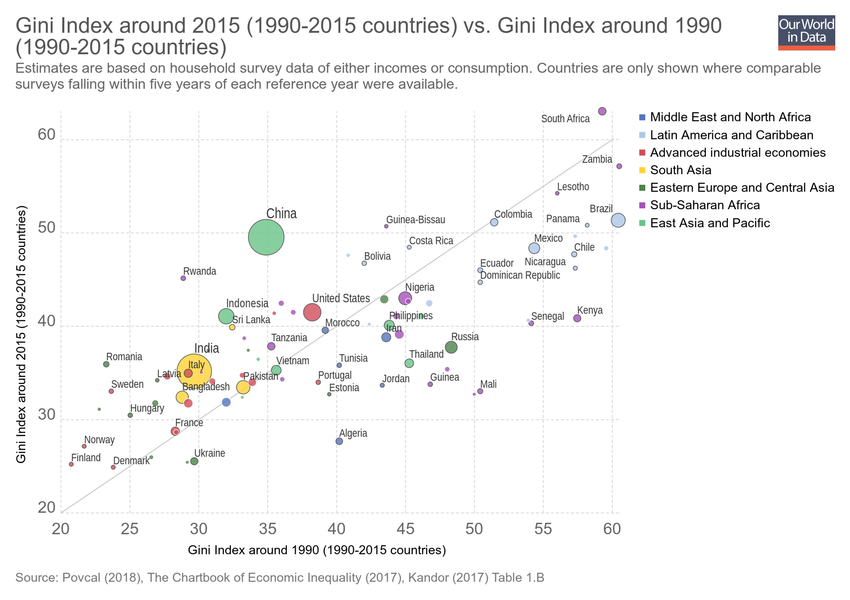
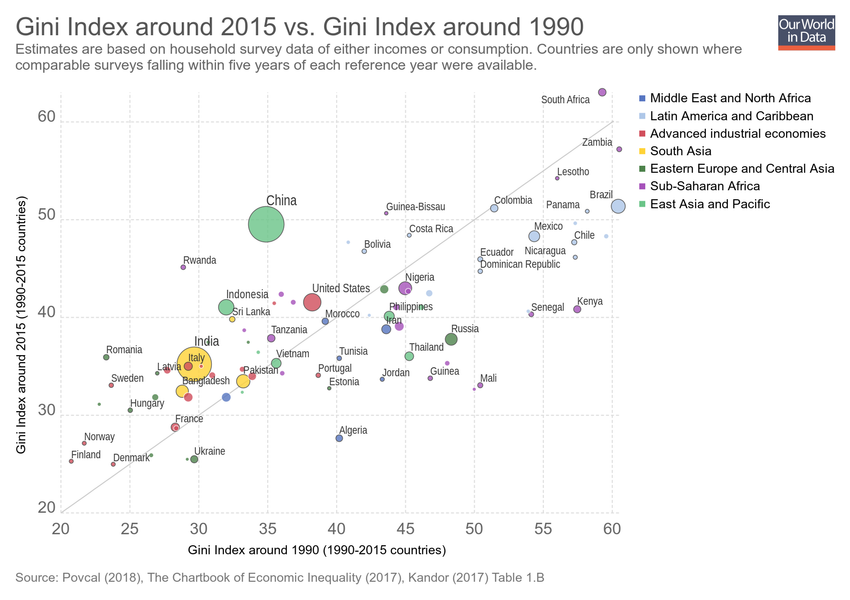
Updating chart gini-index-around-2015-1990-2015-countries-vs-gini-index-around-1990-1990-2015-countries

diff --git a/grapher/gini-index-around-2015-1990-2015-countries-vs-gini-index-around-1990-1990-2015-countries.html b/grapher/gini-index-around-2015-1990-2015-countries-vs-gini-index-around-1990-1990-2015-countries.html
@@ -1,4 +1,4 @@
-<!doctype html><html><head><meta name="viewport" content="width=device-width, initial-scale=1" /><title>Gini Index around 2015 (1990-2015 countries) vs. Gini Index around 1990 (1990-2015 countries) - Our World in Data</title><meta name="description" content="Estimates are based on household survey data of either incomes or consumption. Countries are only shown where comparable surveys falling within five years of each reference year were available." /><link rel="canonical" href="https://ourworldindata.org/grapher/gini-index-around-2015-1990-2015-countries-vs-gini-index-around-1990-1990-2015-countries" /><meta property="fb:app_id" content="1149943818390250" /><meta property="og:url" content="https://ourworldindata.org/grapher/gini-index-around-2015-1990-2015-countries-vs-gini-index-around-1990-1990-2015-countries" /><meta property="og:title" content="Gini Index around 2015 (1990-2015 countries) vs. Gini Index around 1990 (1990-2015 countries)" /><meta property="og:description" content="Estimates are based on household survey data of either incomes or consumption. Countries are only shown where comparable surveys falling within five years of each reference year were available." /><meta property="og:image" content="https://ourworldindata.org/grapher/exports/gini-index-around-2015-1990-2015-countries-vs-gini-index-around-1990-1990-2015-countries.png?v=5" /><meta property="og:image:width" content="850" /><meta property="og:image:height" content="600" /><meta property="og:site_name" content="Our World in Data" /><meta name="twitter:card" content="summary_large_image" /><meta name="twitter:site" content="@OurWorldInData" /><meta name="twitter:creator" content="@OurWorldInData" /><meta name="twitter:title" content="Gini Index around 2015 (1990-2015 countries) vs. Gini Index around 1990 (1990-2015 countries)" /><meta name="twitter:description" content="Estimates are based on household survey data of either incomes or consumption. Countries are only shown where comparable surveys falling within five years of each reference year were available." /><meta name="twitter:image" content="https://ourworldindata.org/grapher/exports/gini-index-around-2015-1990-2015-countries-vs-gini-index-around-1990-1990-2015-countries.png?v=5" /><style>
+<!doctype html><html><head><meta name="viewport" content="width=device-width, initial-scale=1" /><title>Gini Index around 2015 vs. Gini Index around 1990 - Our World in Data</title><meta name="description" content="Estimates are based on household survey data of either incomes or consumption. Countries are only shown where comparable surveys falling within five years of each reference year were available." /><link rel="canonical" href="https://ourworldindata.org/grapher/gini-index-around-2015-1990-2015-countries-vs-gini-index-around-1990-1990-2015-countries" /><meta property="fb:app_id" content="1149943818390250" /><meta property="og:url" content="https://ourworldindata.org/grapher/gini-index-around-2015-1990-2015-countries-vs-gini-index-around-1990-1990-2015-countries" /><meta property="og:title" content="Gini Index around 2015 vs. Gini Index around 1990" /><meta property="og:description" content="Estimates are based on household survey data of either incomes or consumption. Countries are only shown where comparable surveys falling within five years of each reference year were available." /><meta property="og:image" content="https://ourworldindata.org/grapher/exports/gini-index-around-2015-1990-2015-countries-vs-gini-index-around-1990-1990-2015-countries.png?v=6" /><meta property="og:image:width" content="850" /><meta property="og:image:height" content="600" /><meta property="og:site_name" content="Our World in Data" /><meta name="twitter:card" content="summary_large_image" /><meta name="twitter:site" content="@OurWorldInData" /><meta name="twitter:creator" content="@OurWorldInData" /><meta name="twitter:title" content="Gini Index around 2015 vs. Gini Index around 1990" /><meta name="twitter:description" content="Estimates are based on household survey data of either incomes or consumption. Countries are only shown where comparable surveys falling within five years of each reference year were available." /><meta name="twitter:image" content="https://ourworldindata.org/grapher/exports/gini-index-around-2015-1990-2015-countries-vs-gini-index-around-1990-1990-2015-countries.png?v=6" /><style>
         html, body {
             height: 100%;
             margin: 0;
@@ -20,8 +20,8 @@
         }
     </style><noscript><style>
                     figure { display: none !important; }
-                </style></noscript><link rel="stylesheet" href="https://ourworldindata.org/grapher/assets/commons.bundle.9b8c6ed3f71d7662b5f2.css" /><link rel="preload" href="/grapher/data/variables/98734+98733+72+98732.json?v=5" as="fetch" crossorigin /></head><body class="singleChart"><figure data-grapher-src="/grapher/gini-index-around-2015-1990-2015-countries-vs-gini-index-around-1990-1990-2015-countries"></figure><noscript id="fallback"><img src="/grapher/exports/gini-index-around-2015-1990-2015-countries-vs-gini-index-around-1990-1990-2015-countries.svg" /><p>Interactive visualization requires JavaScript</p></noscript><script src="https://cdn.polyfill.io/v2/polyfill.min.js?features=es6,fetch"></script><script src="https://ourworldindata.org/grapher/assets/commons.bundle.9b8c6ed3f71d7662b5f2.js"></script><script src="https://ourworldindata.org/grapher/assets/charts.bundle.9b8c6ed3f71d7662b5f2.js"></script><script>
-        var jsonConfig = {"id":3149,"map":{"projection":"World","colorSchemeLabels":[],"colorSchemeValues":[],"customNumericColors":[],"customCategoryColors":{},"customCategoryLabels":{},"customHiddenCategories":{}},"tab":"chart","slug":"gini-index-around-2015-1990-2015-countries-vs-gini-index-around-1990-1990-2015-countries","type":"ScatterPlot","title":"Gini Index around 2015 (1990-2015 countries) vs. Gini Index around 1990 (1990-2015 countries)","xAxis":{"min":20,"scaleType":"linear"},"yAxis":{"min":20,"scaleType":"linear"},"maxTime":2015,"minTime":2015,"version":5,"subtitle":"Estimates are based on household survey data of either incomes or consumption. Countries are only shown where comparable surveys falling within five years of each reference year were available.","hasMapTab":false,"stackMode":"absolute","dimensions":[{"display":{},"property":"y","variableId":98734},{"display":{},"property":"x","variableId":98733},{"display":{},"property":"size","variableId":72},{"display":{},"property":"color","variableId":98732}],"isAutoSlug":true,"sourceDesc":"Povcal (2018), The Chartbook of Economic Inequality (2017), Kandor (2017) Table 1.B","hasChartTab":true,"isAutoTitle":true,"isPublished":true,"hideTimeline":true,"selectedData":[],"addCountryMode":"add-country","comparisonLine":{"yEquals":"x"},"hideTitleAnnotation":true};
+                </style></noscript><link rel="stylesheet" href="https://ourworldindata.org/grapher/assets/commons.bundle.9b8c6ed3f71d7662b5f2.css" /><link rel="preload" href="/grapher/data/variables/98734+98733+72+98732.json?v=6" as="fetch" crossorigin /></head><body class="singleChart"><figure data-grapher-src="/grapher/gini-index-around-2015-1990-2015-countries-vs-gini-index-around-1990-1990-2015-countries"></figure><noscript id="fallback"><img src="/grapher/exports/gini-index-around-2015-1990-2015-countries-vs-gini-index-around-1990-1990-2015-countries.svg" /><p>Interactive visualization requires JavaScript</p></noscript><script src="https://cdn.polyfill.io/v2/polyfill.min.js?features=es6,fetch"></script><script src="https://ourworldindata.org/grapher/assets/commons.bundle.9b8c6ed3f71d7662b5f2.js"></script><script src="https://ourworldindata.org/grapher/assets/charts.bundle.9b8c6ed3f71d7662b5f2.js"></script><script>
+        var jsonConfig = {"id":3149,"map":{"projection":"World","colorSchemeLabels":[],"colorSchemeValues":[],"customNumericColors":[],"customCategoryColors":{},"customCategoryLabels":{},"customHiddenCategories":{}},"tab":"chart","slug":"gini-index-around-2015-1990-2015-countries-vs-gini-index-around-1990-1990-2015-countries","type":"ScatterPlot","title":"Gini Index around 2015 vs. Gini Index around 1990","xAxis":{"min":20,"scaleType":"linear"},"yAxis":{"min":20,"scaleType":"linear"},"maxTime":2015,"minTime":2015,"version":6,"subtitle":"Estimates are based on household survey data of either incomes or consumption. Countries are only shown where comparable surveys falling within five years of each reference year were available.","hasMapTab":false,"stackMode":"absolute","dimensions":[{"display":{},"property":"y","variableId":98734},{"display":{},"property":"x","variableId":98733},{"display":{},"property":"size","variableId":72},{"display":{},"property":"color","variableId":98732}],"sourceDesc":"Povcal (2018), The Chartbook of Economic Inequality (2017), Kandor (2017) Table 1.B","hasChartTab":true,"isPublished":true,"hideTimeline":true,"selectedData":[],"addCountryMode":"add-country","comparisonLine":{"yEquals":"x"},"hideTitleAnnotation":true};
         var figure = document.getElementsByTagName("figure")[0];
         try {
             window.App = {};
